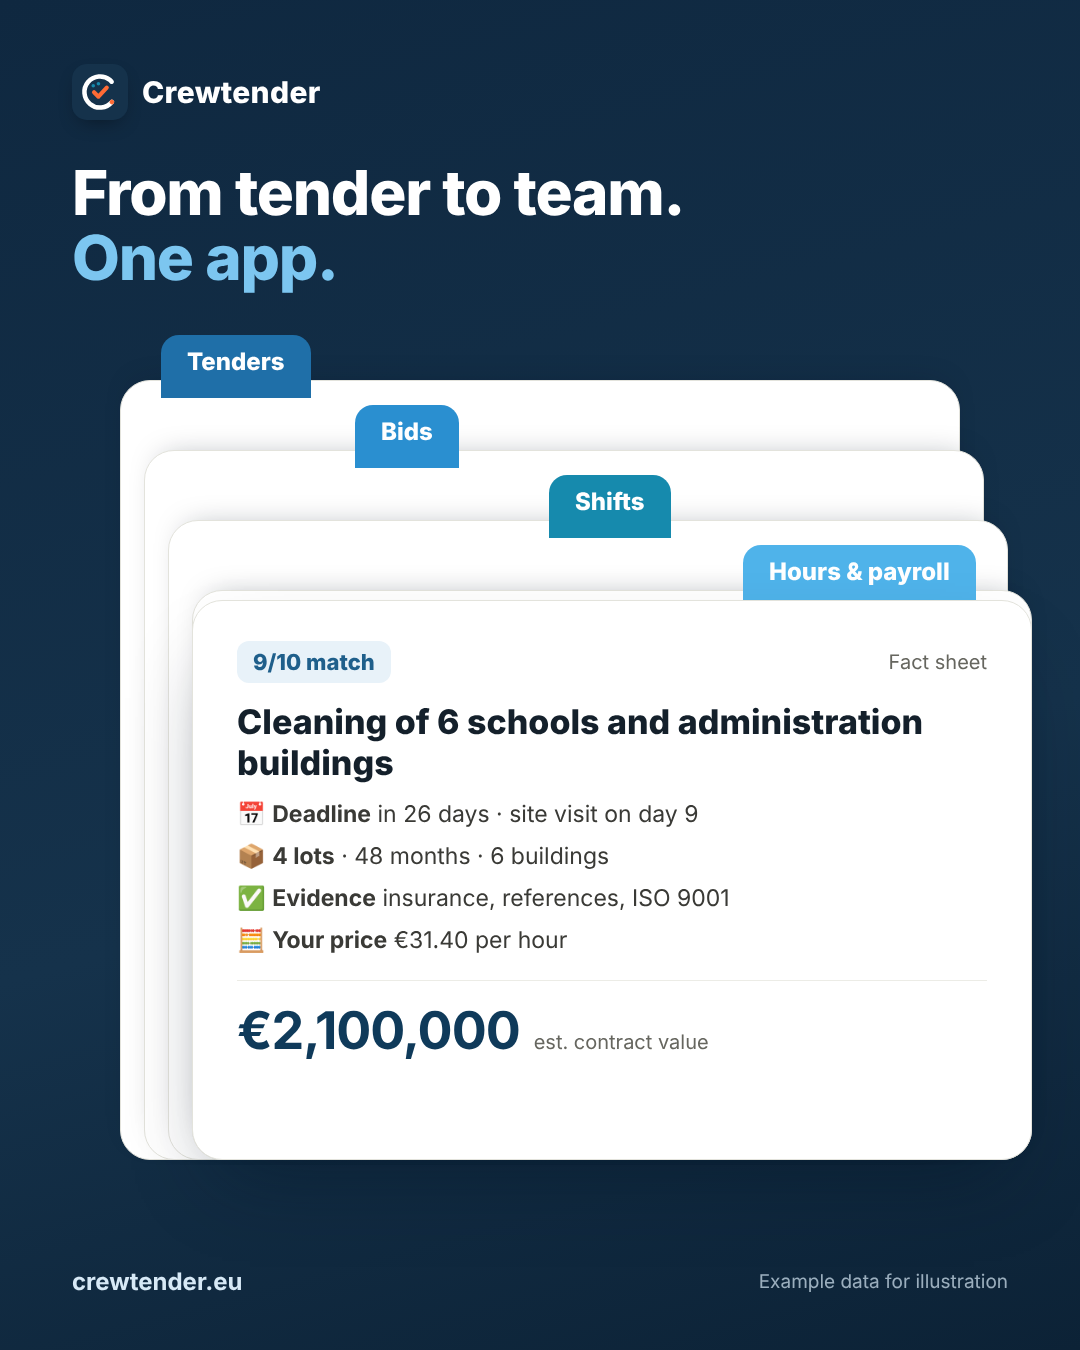
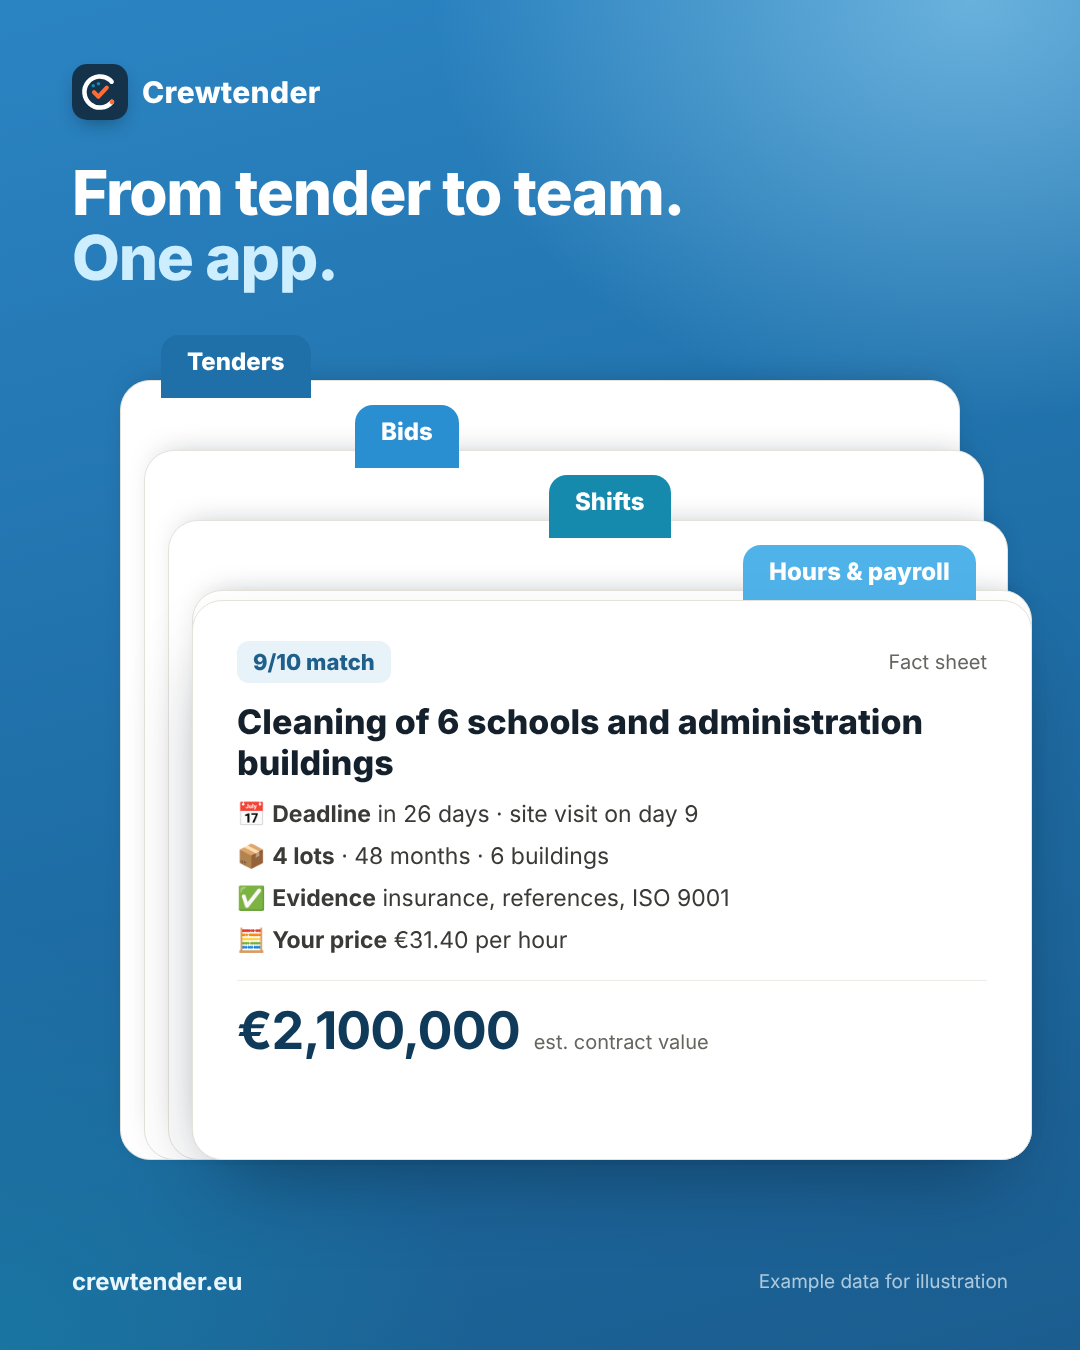
Post-Entwürfe 1 und 3 mit hellerem Hintergrund
Claude-Session: https://claude.ai/code/session_01WxgUrjbh3nfJmBPDxVDDQY

diff --git a/docs/design/crewtender/posts/entwuerfe.py b/docs/design/crewtender/posts/entwuerfe.py
@@ -31,16 +31,16 @@ def kompakt(punkte, titel, wert, extra=''):
     return f'''<div class="karte" style="padding:24px 34px 70px;{extra}"><div style="display:flex;align-items:center;gap:18px"><span class="punkte" style="flex:0 0 auto">{punkte}/10</span><span style="flex:1;min-width:0;font-size:26px;font-weight:750;color:#14202b;white-space:nowrap;overflow:hidden;text-overflow:ellipsis">{titel}</span><span style="flex:0 0 auto;font-size:40px;font-weight:850;letter-spacing:-.02em;color:#0f3a5a">{wert}</span></div></div>'''
 
 # 1 — stacked tender cards, navy, money focus
-p1 = BASE + f'''<div class="post" style="background:radial-gradient(900px 700px at 85% 0%,rgba(79,179,234,.35),transparent 60%),radial-gradient(800px 700px at 0% 100%,rgba(22,138,173,.35),transparent 60%),linear-gradient(165deg,#0f2840 0%,#15324b 55%,#0c2236 100%);color:#fff">
+p1 = BASE + f'''<div class="post" style="background:radial-gradient(900px 700px at 90% 0%,rgba(160,220,250,.55),transparent 60%),radial-gradient(800px 700px at 0% 100%,rgba(22,138,173,.45),transparent 60%),linear-gradient(165deg,#2b84c2 0%,#1f6fa8 50%,#1b5d8f 100%);color:#fff">
 <div class="marke" style="left:72px;top:64px">{LOGO}Crewtender</div>
 <div style="position:absolute;left:72px;right:72px;top:170px">
-<div style="font-size:24px;font-weight:700;color:#7cc6f0;letter-spacing:.12em;text-transform:uppercase;margin-bottom:18px">Public tenders · Every morning</div>
-<div style="font-size:76px;font-weight:850;line-height:1.02;letter-spacing:-.025em">Contracts worth<br><span style="background:linear-gradient(90deg,#7cc6f0,#ffffff);-webkit-background-clip:text;color:transparent">millions.</span> Found for you.</div></div>
+<div style="font-size:24px;font-weight:700;color:#d4efff;letter-spacing:.12em;text-transform:uppercase;margin-bottom:18px">Public tenders · Every morning</div>
+<div style="font-size:76px;font-weight:850;line-height:1.02;letter-spacing:-.025em">Contracts worth<br><span style="background:linear-gradient(90deg,#bfe7ff,#ffffff);-webkit-background-clip:text;color:transparent">millions.</span> Found for you.</div></div>
 {kompakt(6,"Winter service, 40 properties","€210,000","left:120px;top:500px;width:840px")}
 {kompakt(7,"Facility services, 11 daycare centres","€640,000","left:120px;top:604px;width:840px")}
 {kompakt(8,"Security, city hall and museum","€1,350,000","left:120px;top:708px;width:840px")}
 {karte(9,"bid in progress","Cleaning of 6 schools and administration buildings","4 lots · 48 months · 24 km away".split(" · "),"€2,100,000",26,26,"left:120px;top:812px;width:840px")}
-<div class="fuss" style="color:#d7e9f6"><span style="font-weight:700">crewtender.eu</span><span class="klein">Example tenders for illustration</span></div></div></body></html>'''
+<div class="fuss" style="color:#eaf6fd"><span style="font-weight:700">crewtender.eu</span><span class="klein">Example tenders for illustration</span></div></div></body></html>'''
 
 # 2 — big number, light glass
 p2 = BASE + f'''<div class="post" style="background:radial-gradient(800px 600px at 100% 0%,rgba(124,198,240,.6),transparent 60%),radial-gradient(700px 600px at 0% 100%,rgba(22,138,173,.3),transparent 65%),linear-gradient(160deg,#eef8fe 0%,#d6ecfa 55%,#c2e2f6 100%);color:#102a40">
@@ -68,11 +68,11 @@ front = f'''<div style="position:absolute;left:192px;right:48px;top:600px;height
 <div style="display:grid;gap:14px;font-size:23px;color:#3a3a36;margin:10px 0 26px">
 <div>📅 <b>Deadline</b> in 26 days · site visit on day 9</div><div>📦 <b>4 lots</b> · 48 months · 6 buildings</div><div>✅ <b>Evidence</b> insurance, references, ISO 9001</div><div>🧮 <b>Your price</b> €31.40 per hour</div></div>
 <div class="wert"><b>€2,100,000</b><span>est. contract value</span></div></div>'''
-p3 = BASE + f'''<div class="post" style="background:linear-gradient(165deg,#0f2840 0%,#15324b 60%,#0c2236 100%);color:#fff">
+p3 = BASE + f'''<div class="post" style="background:radial-gradient(900px 700px at 90% 0%,rgba(160,220,250,.55),transparent 60%),radial-gradient(800px 700px at 0% 100%,rgba(22,138,173,.45),transparent 60%),linear-gradient(165deg,#2b84c2 0%,#1f6fa8 50%,#1b5d8f 100%);color:#fff">
 <div class="marke" style="left:72px;top:64px">{LOGO}Crewtender</div>
-<div style="position:absolute;left:72px;right:72px;top:160px;font-size:62px;font-weight:850;line-height:1.05;letter-spacing:-.02em">From tender to team.<br><span style="color:#7cc6f0">One app.</span></div>
+<div style="position:absolute;left:72px;right:72px;top:160px;font-size:62px;font-weight:850;line-height:1.05;letter-spacing:-.02em">From tender to team.<br><span style="color:#cdeeff">One app.</span></div>
 {tabhtml}{front}
-<div class="fuss" style="color:#d7e9f6"><span style="font-weight:700">crewtender.eu</span><span class="klein">Example data for illustration</span></div></div></body></html>'''
+<div class="fuss" style="color:#eaf6fd"><span style="font-weight:700">crewtender.eu</span><span class="klein">Example data for illustration</span></div></div></body></html>'''
 
 # 4 — three phones layered with real app screenshots (German demo)
 def phone(img, style):
